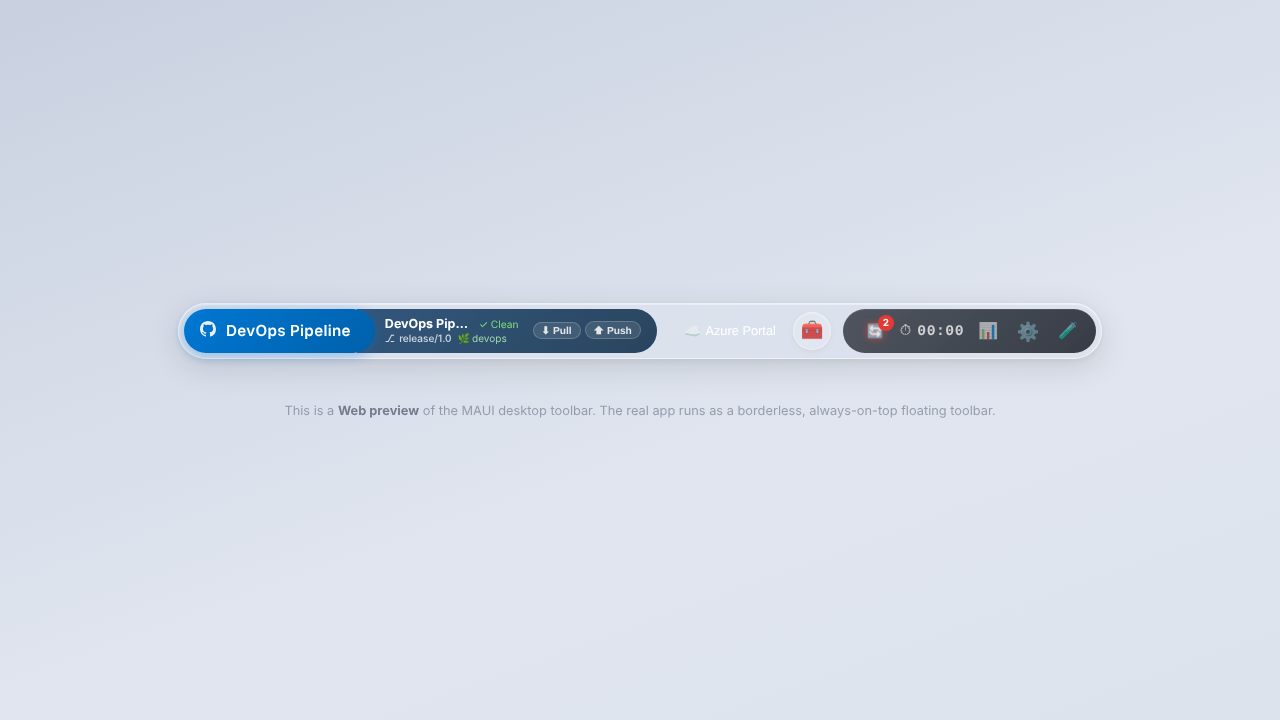
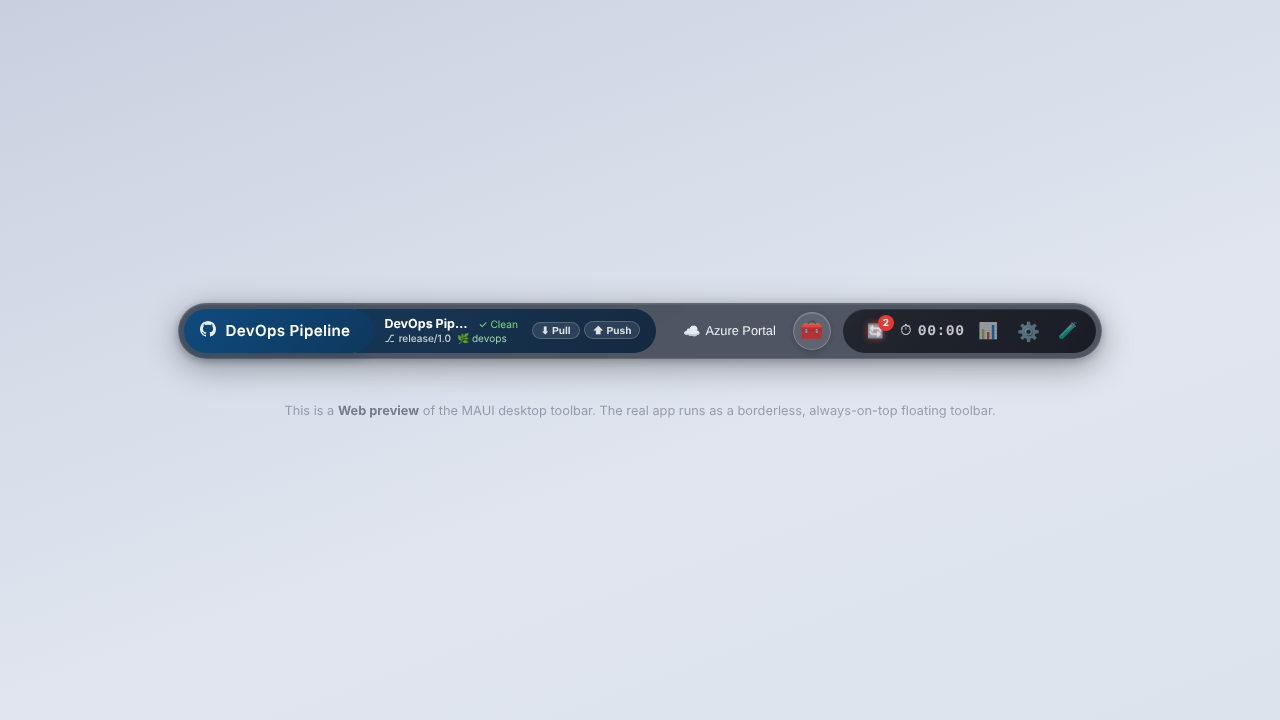
feat: light, dark and green toolbar themes chosen per project in Settings (US3.3)
Claude-Session: https://claude.ai/code/session_011HCNT24JX32EPpcX25shaB

Changed region(s): [[0.125, 0.3972, 0.875, 0.5194]]

diff --git a/src/DevToolbar.UI/wwwroot/css/themes.css b/src/DevToolbar.UI/wwwroot/css/themes.css
@@ -1,0 +1,103 @@
+/* ==========================================================================
+   Toolbar themes (US3.3), from doc/Toolbar-desing-exemple.png.
+
+   The theme is set by MainLayout as data-theme on .toolbar-shell
+   ("light", "dark" or "green"). A theme only changes colours, shadows and
+   glass; the elements, sizes and radii stay the same for every theme.
+   "light" is the base look of toolbar.css, so it needs no rules here.
+   Every popup of the toolbar (project list, plugin panels, "…" menu) lives
+   inside .toolbar-shell, so these selectors reach them too.
+   ========================================================================== */
+
+/* --- Dark: slate glass, navy Git module, dark glass action buttons --- */
+.toolbar-shell[data-theme="dark"] {
+    --glass-bg: rgba(48, 54, 66, 0.82);
+    --shadow-soft: 0 8px 32px rgba(0, 0, 0, 0.35), 0 2px 8px rgba(0, 0, 0, 0.2);
+    --shadow-inner: inset 0 1px 0 rgba(255, 255, 255, 0.08);
+    --text-primary: #e8ecf2;
+    border-color: rgba(255, 255, 255, 0.12);
+}
+
+.toolbar-shell[data-theme="dark"] .module-project {
+    background: linear-gradient(135deg,
+        color-mix(in srgb, var(--project-color) 45%, #1b2638),
+        color-mix(in srgb, var(--project-color) 30%, #141c2a));
+    box-shadow: 0 2px 10px rgba(0, 0, 0, 0.35);
+}
+
+.toolbar-shell[data-theme="dark"] .module-git {
+    background: linear-gradient(135deg,
+        color-mix(in srgb, var(--project-color) 22%, #1d2534),
+        color-mix(in srgb, var(--project-color) 12%, #171e2b));
+}
+
+.toolbar-shell[data-theme="dark"] .module-system {
+    background: linear-gradient(135deg, rgba(30, 34, 42, 0.92), rgba(22, 25, 32, 0.95));
+}
+
+.toolbar-shell[data-theme="dark"] .action-button {
+    background: rgba(255, 255, 255, 0.07);
+    border-color: rgba(255, 255, 255, 0.14);
+    color: rgba(225, 230, 240, 0.85);
+    box-shadow: 0 2px 6px rgba(0, 0, 0, 0.25), inset 0 1px 0 rgba(255, 255, 255, 0.08);
+}
+
+.toolbar-shell[data-theme="dark"] .action-button:hover {
+    background: rgba(255, 255, 255, 0.14);
+    border-color: rgba(255, 255, 255, 0.25);
+    color: #fff;
+}
+
+.toolbar-shell[data-theme="dark"] .project-dropdown,
+.toolbar-shell[data-theme="dark"] .plugin-popover-panel {
+    background: rgba(26, 30, 38, 0.96);
+    box-shadow: 0 12px 40px rgba(0, 0, 0, 0.45), 0 0 0 1px rgba(255, 255, 255, 0.1);
+}
+
+.toolbar-shell[data-theme="dark"] .toolbar-report-btn { filter: brightness(1.4); }
+
+/* --- Green: green glass, deep green Git module, light glass action buttons --- */
+.toolbar-shell[data-theme="green"] {
+    --glass-bg: rgba(96, 150, 100, 0.78);
+    --shadow-soft: 0 8px 32px rgba(30, 70, 35, 0.25), 0 2px 8px rgba(30, 70, 35, 0.12);
+    --shadow-inner: inset 0 1px 0 rgba(255, 255, 255, 0.25);
+    border-color: rgba(255, 255, 255, 0.3);
+}
+
+.toolbar-shell[data-theme="green"] .module-project {
+    background: linear-gradient(135deg, #5cb26a, #44934f);
+    box-shadow: 0 2px 10px rgba(30, 90, 40, 0.35);
+}
+
+.toolbar-shell[data-theme="green"] .module-project:hover {
+    box-shadow: 0 4px 16px rgba(30, 90, 40, 0.45);
+}
+
+.toolbar-shell[data-theme="green"] .module-git {
+    background: linear-gradient(135deg, rgba(38, 92, 48, 0.92), rgba(30, 76, 40, 0.95));
+}
+
+.toolbar-shell[data-theme="green"] .module-system {
+    background: linear-gradient(135deg, rgba(52, 60, 54, 0.9), rgba(40, 46, 42, 0.94));
+}
+
+.toolbar-shell[data-theme="green"] .action-button {
+    background: rgba(255, 255, 255, 0.16);
+    border-color: rgba(255, 255, 255, 0.35);
+    color: rgba(255, 255, 255, 0.92);
+}
+
+.toolbar-shell[data-theme="green"] .action-button:hover {
+    background: rgba(255, 255, 255, 0.28);
+    border-color: rgba(255, 255, 255, 0.55);
+    color: #fff;
+}
+
+.toolbar-shell[data-theme="green"] .project-dropdown,
+.toolbar-shell[data-theme="green"] .plugin-popover-panel {
+    background: rgba(28, 56, 34, 0.95);
+}
+
+.toolbar-shell[data-theme="green"] .project-dropdown-item:hover {
+    background: rgba(255, 255, 255, 0.12);
+}

diff --git a/src/DevToolbar.UI/wwwroot/css/toolbar.css b/src/DevToolbar.UI/wwwroot/css/toolbar.css
@@ -2006,7 +2006,8 @@ body.dock-bottom .smart-process-menu { top: auto; bottom: calc(100% + 12px); }
     background: transparent;
 }
 
-.settings-font-select {
+.settings-font-select,
+.settings-theme-select {
     background: rgba(45, 45, 45, 0.7);
     color: var(--text-primary);
     border: 1px solid var(--border-color);
@@ -2016,7 +2017,8 @@ body.dock-bottom .smart-process-menu { top: auto; bottom: calc(100% + 12px); }
     cursor: pointer;
 }
 
-.settings-font-select:focus {
+.settings-font-select:focus,
+.settings-theme-select:focus {
     outline: none;
     border-color: var(--accent-color);
 }

diff --git a/src/DevToolbar.Windows/wwwroot/index.html b/src/DevToolbar.Windows/wwwroot/index.html
@@ -6,6 +6,7 @@
     <title>DevToolbar</title>
     <base href="/" />
     <link rel="stylesheet" href="_content/DevToolbar.UI/css/toolbar.css" />
+    <link rel="stylesheet" href="_content/DevToolbar.UI/css/themes.css" />
     <link rel="stylesheet" href="css/wpf-host.css" />
 </head>
 <!-- Fully transparent page: only painted CSS shapes (alpha > 0) take input. -->

diff --git a/tests/DevToolbar.Tests.E2E/Scenarios/FeatureSpecTests.cs b/tests/DevToolbar.Tests.E2E/Scenarios/FeatureSpecTests.cs
@@ -340,6 +340,69 @@ public class FeatureSpecTests : PageTest
         await Expect(style).ToHaveCountAsync(0);
     }
 
+    [Test]
+    public async Task US3_3_Theme_FollowsActiveProject()
+    {
+        await OpenToolbar();
+        var shell = Page.Locator(".toolbar-shell");
+        await Expect(shell).ToHaveAttributeAsync("data-theme", "light");
+        var lightBackground = await ShellBackground();
+
+        await SwitchProject("FrontEnd App");
+        await Expect(shell).ToHaveAttributeAsync("data-theme", "green");
+        var greenBackground = await ShellBackground();
+
+        await SwitchProject("DevOps Pipeline");
+        await Expect(shell).ToHaveAttributeAsync("data-theme", "dark");
+        var darkBackground = await ShellBackground();
+
+        Assert.That(new[] { lightBackground, greenBackground, darkBackground }.Distinct().Count(), Is.EqualTo(3),
+            "each theme gives the toolbar its own glass colour");
+        await SwitchProject("MyWebAPI");
+    }
+
+    [Test]
+    public async Task US3_3_Theme_IsChosenInSettings_AndKeepsTheSameElements()
+    {
+        await OpenToolbar();
+        var shell = Page.Locator(".toolbar-shell");
+        await Expect(shell).ToHaveAttributeAsync("data-theme", "light");
+        var lightElements = await ToolbarElementClasses();
+
+        try
+        {
+            await OpenSettings();
+            var select = Page.GetByTestId("theme-select");
+            await Expect(select).ToHaveValueAsync("light");
+            await select.SelectOptionAsync("dark");
+            await BackToToolbar();
+
+            await Expect(shell).ToHaveAttributeAsync("data-theme", "dark");
+            Assert.That(await ToolbarElementClasses(), Is.EqualTo(lightElements), "a theme only changes styles");
+
+            // The choice is saved with the project: it survives a project switch.
+            await SwitchProject("FrontEnd App");
+            await SwitchProject("MyWebAPI");
+            await Expect(shell).ToHaveAttributeAsync("data-theme", "dark");
+        }
+        finally
+        {
+            await OpenSettings();
+            await Page.GetByTestId("theme-select").SelectOptionAsync("light");
+            await BackToToolbar();
+        }
+
+        await Expect(shell).ToHaveAttributeAsync("data-theme", "light");
+    }
+
+    private Task<string> ShellBackground() =>
+        Page.Locator(".toolbar-shell").EvaluateAsync<string>("el => getComputedStyle(el).backgroundColor");
+
+    /// <summary>The class list of every element in the toolbar, in document order.</summary>
+    private Task<string[]> ToolbarElementClasses() =>
+        Page.Locator(".toolbar-shell").EvaluateAsync<string[]>(
+            "el => [...el.querySelectorAll('*')].map(e => e.tagName + '.' + [...e.classList].sort().join('.'))");
+
     // ───────────────────────── F4 · Quick actions ─────────────────────────
 
     [Test]

diff --git a/tests/DevToolbar.Tests.Unit/Ui/ThemeTests.cs b/tests/DevToolbar.Tests.Unit/Ui/ThemeTests.cs
@@ -1,0 +1,67 @@
+namespace DevToolbar.Tests.Unit.Ui;
+
+using System.Text.Json;
+using System.Text.RegularExpressions;
+using DevToolbar.Core.Models;
+using DevToolbar.UI.Services;
+
+/// <summary>US3.3: themes offered to the user (light, dark, green).</summary>
+[TestFixture]
+public class ThemeTests
+{
+    [TestCase("light", "light")]
+    [TestCase("dark", "dark")]
+    [TestCase("green", "green")]
+    [TestCase(" Dark ", "dark")]
+    [TestCase("GREEN", "green")]
+    [TestCase("purple", "light")]
+    [TestCase("", "light")]
+    [TestCase(null, "light")]
+    public void Normalize_returns_a_known_theme_or_light(string? name, string expected)
+    {
+        Assert.That(ThemeNames.Normalize(name), Is.EqualTo(expected));
+    }
+
+    [Test]
+    public void ThemeService_exposes_the_normalized_name_of_the_active_theme()
+    {
+        var service = new ThemeService();
+        Assert.That(service.ThemeName, Is.EqualTo("light"), "default theme");
+
+        service.SetTheme(new ThemeConfig { Name = "Dark" });
+        Assert.That(service.ThemeName, Is.EqualTo("dark"));
+
+        service.SetTheme(new ThemeConfig { Name = "unknown" });
+        Assert.That(service.ThemeName, Is.EqualTo("light"));
+    }
+
+    [Test]
+    public void Theme_name_is_read_from_and_written_to_the_project_config()
+    {
+        var theme = JsonSerializer.Deserialize<ThemeConfig>("""{ "name": "green", "accentColor": "#4CAF50" }""")!;
+        Assert.That(theme.Name, Is.EqualTo("green"));
+
+        var json = JsonSerializer.Serialize(new ThemeConfig { Name = ThemeNames.Dark });
+        Assert.That(json, Does.Contain("\"name\":\"dark\""));
+
+        var old = JsonSerializer.Deserialize<ThemeConfig>("""{ "accentColor": "#0078D7" }""")!;
+        Assert.That(old.Name, Is.EqualTo("light"), "configs written before US3.3 keep the light look");
+    }
+
+    [Test]
+    public void Every_theme_except_light_has_rules_in_themes_css()
+    {
+        var css = File.ReadAllText(Path.Combine(RepoRoot(), "src/DevToolbar.UI/wwwroot/css/themes.css"));
+        var styled = Regex.Matches(css, "data-theme=\"([a-z]+)\"").Select(m => m.Groups[1].Value).ToHashSet();
+
+        Assert.That(styled, Is.EquivalentTo(ThemeNames.All.Where(n => n != ThemeNames.Light)),
+            "light is the base look of toolbar.css; every other theme needs its rules");
+    }
+
+    private static string RepoRoot()
+    {
+        var dir = new DirectoryInfo(TestContext.CurrentContext.TestDirectory);
+        while (dir != null && !File.Exists(Path.Combine(dir.FullName, "DevToolbar.slnx"))) dir = dir.Parent;
+        return dir?.FullName ?? throw new DirectoryNotFoundException("Repository root (DevToolbar.slnx) not found.");
+    }
+}

diff --git a/src/DevToolbar.Core/Models/ThemeConfig.cs b/src/DevToolbar.Core/Models/ThemeConfig.cs
@@ -7,6 +7,13 @@ using System.Text.Json.Serialization;
 /// </summary>
 public class ThemeConfig
 {
+    /// <summary>
+    /// Theme of the toolbar (US3.3): "light", "dark" or "green" (<see cref="ThemeNames"/>).
+    /// A theme only changes styles, never the elements. Unknown names fall back to light.
+    /// </summary>
+    [JsonPropertyName("name")]
+    public string Name { get; set; } = ThemeNames.Light;
+
     [JsonPropertyName("accentColor")]
     public string AccentColor { get; set; } = "#0078D7";
 
@@ -18,4 +25,32 @@ public class ThemeConfig
     /// </summary>
     [JsonPropertyName("customCss")]
     public string? CustomCss { get; set; }
+}
+
+/// <summary>
+/// Themes offered to the user (US3.3), from doc/Toolbar-desing-exemple.png.
+/// </summary>
+public static class ThemeNames
+{
+    public const string Light = "light";
+    public const string Dark = "dark";
+    public const string Green = "green";
+
+    /// <summary>All themes, in the order shown in Settings.</summary>
+    public static IReadOnlyList<string> All { get; } = [Light, Dark, Green];
+
+    /// <summary>Returns a known theme name (lower case), or <see cref="Light"/> for anything else.</summary>
+    public static string Normalize(string? name)
+    {
+        var trimmed = name?.Trim().ToLowerInvariant();
+        return trimmed is not null && All.Contains(trimmed) ? trimmed : Light;
+    }
+
+    /// <summary>Label shown in Settings.</summary>
+    public static string DisplayName(string name) => Normalize(name) switch
+    {
+        Dark => "Dark",
+        Green => "Green",
+        _ => "Light",
+    };
 }

diff --git a/src/DevToolbar.Web/Mocks/MockSettingsService.cs b/src/DevToolbar.Web/Mocks/MockSettingsService.cs
@@ -51,7 +51,7 @@ public class MockSettingsService : ISettingsService
                 ProjectType = "SPA",
                 DefaultBranch = "main",
                 RepositoryUrl = "https://github.com/example/frontend-app",
-                Theme = new ThemeConfig { AccentColor = "#4CAF50" },
+                Theme = new ThemeConfig { Name = ThemeNames.Green, AccentColor = "#4CAF50" },
                 EnabledPlugins = new List<string> { "git-tools", "work-items", "time-tracker" },
                 Actions = new List<ActionConfig>
                 {
@@ -70,6 +70,7 @@ public class MockSettingsService : ISettingsService
                 RepositoryUrl = "https://dev.azure.com/example/devops-pipeline",
                 Theme = new ThemeConfig
                 {
+                    Name = ThemeNames.Dark,
                     AccentColor = "#E53935",
                     // US3.2: custom CSS from the project config is injected into the toolbar
                     CustomCss = ".toolbar-shell { --devops-custom-css: applied; }"

diff --git a/src/DevToolbar.UI/Services/ThemeService.cs b/src/DevToolbar.UI/Services/ThemeService.cs
@@ -15,6 +15,9 @@ public class ThemeService
         OnThemeChanged?.Invoke();
     }
 
+    /// <summary>Active theme (US3.3), always a known name; set as <c>data-theme</c> on the toolbar.</summary>
+    public string ThemeName => ThemeNames.Normalize(_currentTheme.Name);
+
     public string GetCssVariables() =>
         $"--accent-color: {_currentTheme.AccentColor}; --font-family: {_currentTheme.FontFamily};";
 

diff --git a/tests/DevToolbar.Tests.Unit/Ui/StylesheetSyntaxTests.cs b/tests/DevToolbar.Tests.Unit/Ui/StylesheetSyntaxTests.cs
@@ -13,6 +13,7 @@ public class StylesheetSyntaxTests
     private static readonly string[] Stylesheets =
     {
         "src/DevToolbar.UI/wwwroot/css/toolbar.css",
+        "src/DevToolbar.UI/wwwroot/css/themes.css",
         "src/DevToolbar.Windows/wwwroot/css/wpf-host.css",
     };
 

diff --git a/doc/Features.md b/doc/Features.md
@@ -69,7 +69,7 @@ Les nouvelles questions s'ajoutent ici avec un numéro.
 | US2.5 | Version de schéma et migration | ✅ 🔍 |
 | US3.1 | Layout principal (pilule) | ✅ |
 | US3.2 | Couleur d'accent et police par projet | ✅ |
-| US3.3 | Thèmes proposés à l'utilisateur | 🟡 |
+| US3.3 | Thèmes proposés à l'utilisateur | ✅ |
 | US3.4 | Vue compacte et débordement | ✅ 🔍 |
 | US3.5 | Fonctions de debug masquées en Release | ✅ |
 | US3.6 | Modules redimensionnables | ✅ 🔍 |
@@ -318,16 +318,17 @@ Référence visuelle : [`doc/Toolbar-desing-exemple.png`](Toolbar-desing-exemple
 - [x] La couleur et la police se modifient dans Paramètres.
 
 ## US3.3 Thèmes proposés à l'utilisateur
-**État :** 🟡 Partiel
+**État :** ✅ Fait
 
 **En tant qu'** utilisateur
 **Je veux** choisir un thème (clair, sombre, vert…)
 **Afin d'** adapter la toolbar à mon goût sans changer sa disposition.
 
 **Critères d'acceptation :**
-- [ ] Les thèmes clair, sombre et vert de la maquette sont disponibles dans l'interface Blazor.
-- [ ] Le thème se choisit dans Paramètres.
-- [ ] Un thème ne change que les styles (couleurs, ombres intérieures, rayons), jamais les éléments.
+- [x] Les thèmes clair, sombre et vert de la maquette sont disponibles dans l'interface Blazor (`css/themes.css`, attribut `data-theme` sur la toolbar). Le clair est l'apparence de base ; le sombre et le vert changent le verre, les modules Git et système, les boutons d'action, la liste des projets et les panneaux des plugins.
+- [x] Le thème se choisit dans Paramètres → *Theme*, comme la couleur d'accent et la police. Il est propre à chaque projet (`projects[].theme.name` : `light`, `dark` ou `green` ; un nom inconnu donne le clair) et il est enregistré dans la configuration. Changer de projet change donc aussi de thème.
+- [x] Un thème ne change que les styles (couleurs, ombres, verre), jamais les éléments ni leurs tailles : un test E2E compare la liste des éléments de la toolbar avant et après le changement de thème.
+- La page Paramètres et le rapport de temps gardent leur apparence sombre actuelle dans tous les thèmes.
 
 ## US3.4 Vue compacte et débordement
 **État :** ✅ Fait, 🔍 à recetter sur PC

diff --git a/README.md b/README.md
@@ -66,7 +66,7 @@ The visual direction for themes is [doc/Toolbar-desing-exemple.png](doc/Toolbar-
 - **Plugin indicators**: work item and CI/CD status in the system group, each with its own popover.
 - **Timer** (Windows host): Start/Stop on the active project and work item; paused while you are away, then resumed. The ⏱ panel shows when you arrived, your last lock, and the absences to label; a badge on the timer counts them. Rules in Settings → *Time tracking*.
 - **Time report**: today / 7 days / 30 days, grouped by project, work item, day or description, CSV export, plus each work day with its arrival, last lock and absences.
-- **Theme**: accent color, font and custom CSS per project.
+- **Theme**: light, dark or green toolbar theme (from the design mockup), accent color, font and custom CSS, per project.
 - **Window placement** (Windows host): docked top, docked bottom, floating or overlay, target monitor, drag handle.
 - **Tray icon** (Windows host): left click shows or hides the toolbar; right click offers Settings and Quit. Closing the toolbar window quits the app.
 - **Popups** close on outside click, on `Esc` (focus returns to the trigger) and when another application is activated.
